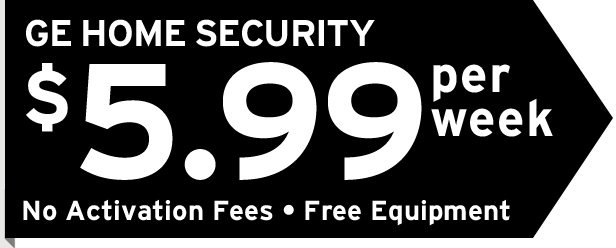
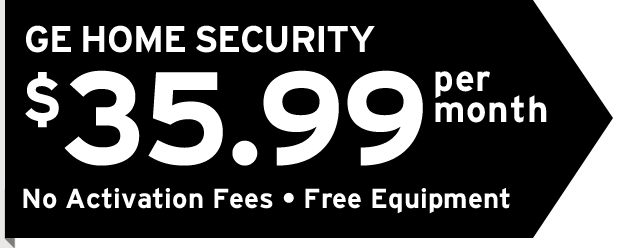
radioshack special deal updated

Changed region(s): [[0.0308, 0.0565, 0.8945, 0.7339], [0.0308, 0.7339, 0.8328, 0.9032], [0.8328, 0.0, 1.0, 0.9597]]

diff --git a/src/templates/affiliates/radioshack/index.html b/src/templates/affiliates/radioshack/index.html
@@ -170,7 +170,7 @@
         <tbody>
             <tr>
                 <td class="title">Door / Window Sensors</td>
-                <td class="item-count pa">3</td>
+                <td class="item-count pa">10</td>
                 <td class="item-count">3</td>
                 <td class="item-count">3</td>
             </tr>
@@ -194,7 +194,7 @@
             </tr>
             <tr>
                 <td class="title">Monthly Cost</td>
-                <td class="price pa">$23.99</td>
+                <td class="price pa">$35.99</td>
                 <td class="price">$35.99</td>
                 <td class="price">$40.99</td>
             </tr>
@@ -260,4 +260,13 @@
             </div>
             <div class="clear"></div>
         </div>
+{% endblock %}
+
+{% block extracontent %}
+        <div id="terms-and-conditions">
+            <p>The BEST BUY SEAL is a registered trademark of Consumers Digest Communications, LLC, used under license.</p>
+            <p>*Offer good through 12/31/12. Must be a homeowner with approved credit. 36 mo. standard monitoring agreement at least $35.95/mo required. $79 restocking fee for early cancellation. Offer subject to change. Void where prohibited. Restrictions apply. Information regarding home security system comparisons obtained via ADT.com on October 15, 2012.</p>
+            <p>&dagger;To qualify for the $250 RadioShack gift card, customer must install and activate Protect America home security system and service within 7 days of receiving their system. Gift card will be sent after 30 days of service; please allow an additional 4-6 weeks for delivery. To be eligible for gift card, must be a new customer and must dial 1-800-951-5167 or submit a lead at http://www.protectamerica.com/radioshack/. Cannot be combined with any other offer. Not available to existing Protect America customers. Security system requires 36 month monitoring service agreement at least 35.95/mo. Void where prohibited. Restrictions apply.</p>
+        </div>
+
 {% endblock %}

diff --git a/src/templates/affiliates/radioshack/radioshack.html b/src/templates/affiliates/radioshack/radioshack.html
@@ -654,7 +654,8 @@ return self.AJAX;
     </div>
     <div class="clear"></div>
 </div>
-
+    {% block extracontent %}
+    {% endblock %}
 </div></div></div></div>
 <div class="footer">
     <div class="inner clearfix">
